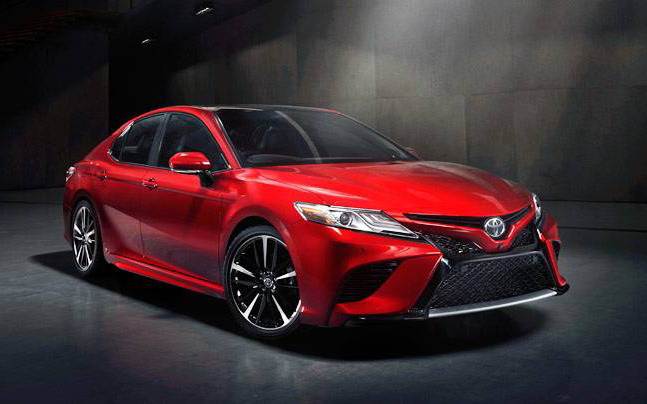
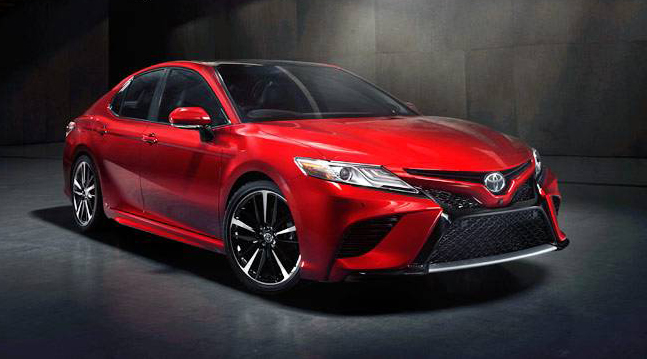
change pix

diff --git a/portfolio.html b/portfolio.html
@@ -132,7 +132,7 @@
             <p class="description">
                 Статистика продаж автомобилей с небольшими повреждениями:
                 <br>
-                <br> 2015 цена аукциона от 2550 до 4600 всего включая адресную доставку, наши услуги и таможню от 8100 до 11020.
+                <br> 2015 цена аукциона от 4000 до 6000 всего включая адресную доставку, наши услуги и таможню от 9000 до 12000.
                 <br>
                 <br> 2018 цена аукциона от 5400 до 6000 всего включая адресную доставку, наши услуги и таможню от 11800 до 12650.
                  <br>
@@ -144,6 +144,7 @@
               src="./images/car4.jpg"
               alt="car4"
               width="370"
+              height="210"
             />
             <h4 class="team-name" lang="ru">Toyota Camry</h4>
             <p class="team-position">2015-2020</p>
